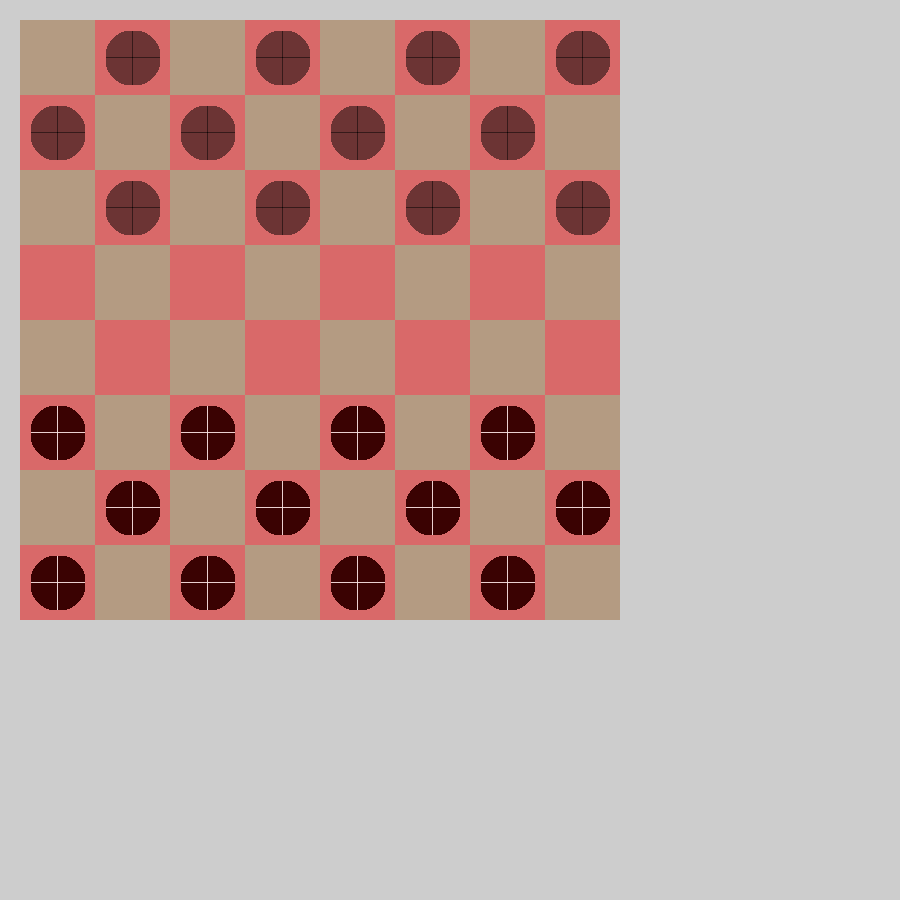
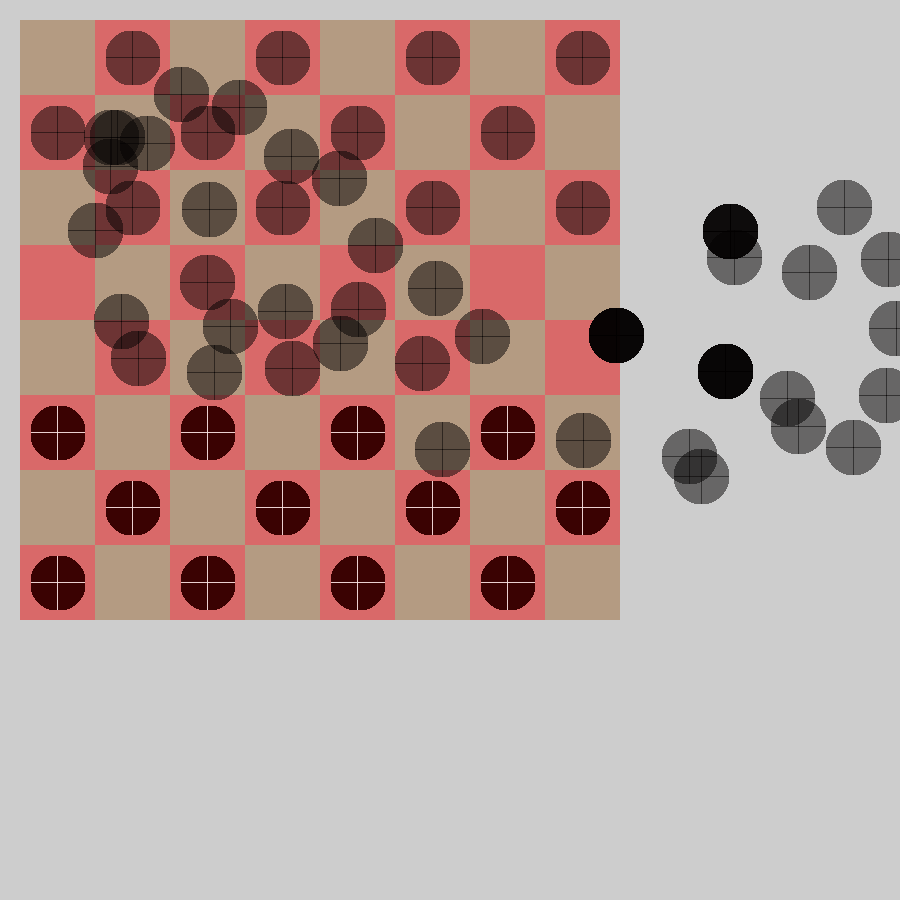
added comments
provided javadoc comments for all methods and further commented the rest
of my solution

diff --git a/src/HomeWork1App.cpp b/src/HomeWork1App.cpp
@@ -1,3 +1,13 @@
+/**
+ * @author Ryan Daughters
+ * @date 2012-09-04
+ * CSE 274
+ * My solution for Program 1
+ *
+ * @note This solution satisfies goals A.1 (Rectangle), A.2 (Circle), A.3 (Line),
+ * A.6 (Tint), E.2 (Transparency), and E.6 (Mouse interaction).
+ */
+
 #include "cinder/app/AppBasic.h"
 #include "cinder/gl/gl.h"
 #include "cinder/gl/Texture.h"
@@ -19,11 +29,9 @@ class HomeWork1App : public AppBasic {
 	  // width and height of the screen
 	  static const int kSurfaceSize=900;
 
+	  // surface object that will be used to access the pixel array
 	  Surface* mySurface_;
 	  uint8_t* myPixels;
-
-	  int startX;
-	  int startY;
 
 	  //methods
 	  void horLine(uint8_t* pixels, int x1, int x2, int y, Color8u lineColor);
@@ -41,8 +49,8 @@ void HomeWork1App::setup()
 	mySurface_ = new Surface(kSurfaceSize,kSurfaceSize,false);
 	myPixels = (*mySurface_).getData();
 
-	//tint(myPixels,Color(125.0,0,0));
-	checkerBoard(myPixels,20,20);
+	tint(myPixels,Color(125.0,0,0));
+	checkerBoard(myPixels,20,20); //draws the checkerboard
 	checkers(myPixels,132.5,57.5,Color(0,0,0)); //row 1
 	checkers(myPixels,57.5,132.5,Color(0,0,0)); //row 2
 	checkers(myPixels,132.5,207.5,Color(0,0,0)); //row 3
@@ -51,8 +59,13 @@ void HomeWork1App::setup()
 	checkers(myPixels,57.5,582.5,Color(50,50,50)); //row 8
 }
 
-/* This method should draw a horizontal line between two points. This is
- * a test method to try and draw something using the pixel array.
+/* Draws a horizontal line between x1 and x2 at y.
+ * @param unit8_t* pixels    surface object that will be modified
+ * @param int      x1        starting x-intercept
+ * @param int      x2        ending x-intercept
+ * @param int      y         y-intercept of the line
+ * @param Color8u  lineColor color you wish the line to be
+ * @return                   null
  */
 void HomeWork1App::horLine(uint8_t* pixels, int x1, int x2, int y, Color8u lineColor)
 {
@@ -64,11 +77,14 @@ void HomeWork1App::horLine(uint8_t* pixels, int x1, int x2, int y, Color8u lineC
 	}
 };
 
-/* Draw an empty square that uses both horLine and vertLine methods.
- * parameter int x: the x-cordinate of the top left point of the square.
- * parameter int y: the y-cordinate of the top left point of the square.
- * parameter int sideLength: the length you want each side of the square to be.
- * parameter Color8u lineColor: the color you want the line to be.
+/* Draw a filled in rectangle that has an upperleft most corner at (startx, starty).
+ * @param uint8_t* pixels    surface object that will be modified
+ * @param int      startx    x-cordinate of the top left point of the square
+ * @param int      starty    y-cordinate of the top left point of the square
+ * @param int      width     length you want the x-values to cover
+ * @param int      height    length you want the y-values to cover
+ * @param Color8u  lineColor color you want the line to be
+ * @return                   null
  */
 void HomeWork1App::rectangle(uint8_t* pixels, int startx, int starty, int width, int height, Color8u lineColor)
 {
@@ -77,7 +93,19 @@ void HomeWork1App::rectangle(uint8_t* pixels, int startx, int starty, int width,
 	}
 };
 
-// Draws a cirlce. Is taken from Dr. Brinkman's draw rings method.
+/** Draw a circle with the center at (center_x, center_y) and a radius r. The core logic
+ * of this method was take from Dr.Brinkman's HW01 solution that can be found
+ * here: https://github.com/brinkmwj/HW01/blob/master/src/HW01App.cpp.
+ *
+ * @note this method creates a transparent circle that satisfies E.2
+ *
+ * @param unit8_t* pixels    surface object that will be modified
+ * @param double   center_x  x-intercept of the center of the circle
+ * @param double   center_y  y-intercept of the center of the circle
+ * @param double   r         raidus of the circle
+ * @param Color8u  lineColor color of the circle
+ * @return     null
+ */
 void HomeWork1App::drawCircle(uint8_t* pixels, double center_x, double center_y, double r, Color8u lineColor)
 {
 	if (r <= 0) return;
@@ -140,7 +168,12 @@ void HomeWork1App::drawCircle(uint8_t* pixels, double center_x, double center_y,
 	}
 };
 
-//draw a checkerboard
+/** Draw a checkerboard that is 8x8 and starts at (startX, startY).
+ * @param uint8_t* pixels surface object that will be modified
+ * @param int      startX x-intercept of the top left corner of the board
+ * @param int      startY y-intercept of the top left corner of the board
+ * @return                null
+ */
 void HomeWork1App::checkerBoard(uint8_t* pixels, int startX, int startY)
 {
 	int reverse = 0;
@@ -169,6 +202,11 @@ void HomeWork1App::checkerBoard(uint8_t* pixels, int startX, int startY)
 	}
 };
 
+/** Tint the screen
+ * @param uint8_t* pixels surface object that will be modified
+ * @param Color8u  c      color you wish to tint the app
+ * @return                null
+ */
 void HomeWork1App::tint(uint8_t* pixels, Color8u c) 
 {
 	for (int y=0; y<kSurfaceSize; y++) {
@@ -179,7 +217,13 @@ void HomeWork1App::tint(uint8_t* pixels, Color8u c)
 	}
 };
 
-//draw 8 checkers on the checkerboard
+/** Draw one row of 4 checkers that starts at (startx, starty)
+ * @param uint8_t* pixels surface obejct that will be modified
+ * @prarm double   startx x-intercept of the center of the far left circle
+ * @param double   starty y-intercept of the center of the far left circle
+ * @param Color8u  c      color you wish the checkers to be
+ * @return                null
+ */
 void HomeWork1App::checkers(uint8_t* pixels, double startx, double y, Color8u c)
 {
 	for (int x=0; x<4; x++) {
@@ -190,16 +234,21 @@ void HomeWork1App::checkers(uint8_t* pixels, double startx, double y, Color8u c)
 
 void HomeWork1App::mouseDown( MouseEvent event )
 {
+	int x = event.getX();
+	int y = event.getY();
+
+	// when the user clicks the app, a circle will be created where they clicked
+	drawCircle(myPixels,x,y,27.5,Color(255,0,0));
 }
 
 void HomeWork1App::update()
 {
-	writeImage("daughtrc.png", *mySurface_);
+	writeImage("daughtrc.png", *mySurface_); //write the image to a file
 }
 
 void HomeWork1App::draw()
 {
-	gl::draw(*mySurface_);
+	gl::draw(*mySurface_); //draw the surface object
 }
 
 CINDER_APP_BASIC( HomeWork1App, RendererGl )
